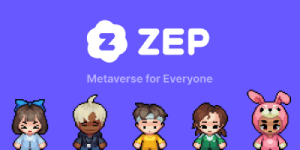
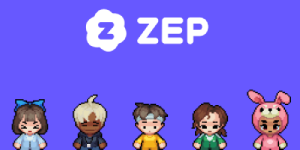
btn

Changed region(s): [[0.27, 0.0533, 0.72, 0.4267], [0.27, 0.48, 0.72, 0.56]]

diff --git a/css/button.css b/css/button.css
@@ -76,6 +76,11 @@
 }
 
 .note_zep {
+  background-image: url("/img/zep.png");
+  background-size: cover;
+  font-family: 'S-CoreDream-3Light';
+  font-size: 12px;
+  color: white;
   padding: 0px;
   width: 200px;
   height: 100px;
@@ -86,15 +91,10 @@
   border:0.5px solid #dcdcdc;
   overflow: hidden;
   touch-action: none; 
+  text-shadow: 0 0 10px #FFFFFF;
 }
-
 
 .note_zep:active {
   box-shadow: 0 5px #666, 3px 13px 10px -3px rgba(0,0,0,0.3);
   transform: translateY(3px);
-}
-
-.note_img {
-  border-radius: 20px;
-  height: 100px;
 }

diff --git a/index.html b/index.html
@@ -188,8 +188,8 @@
           </section>
           <section class="page">
             <h3>방명록</h3>
-            <button type="button" class="note_zep" onclick="window.open('https://zep.us/play/yaLpPP')">
-              <img class="note_img" src="img/zep.png" width="200">
+            <button class="note_zep" href="https://zep.us/play/yaLpPP" target="_blank">
+              버튼을 눌러주세요 :D
             </button>
           </section>
           <div id="jsScroll" class="scroll" onclick="scrollToTop();">
